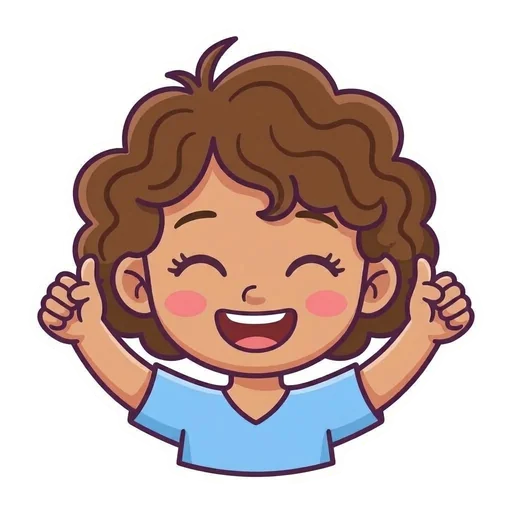
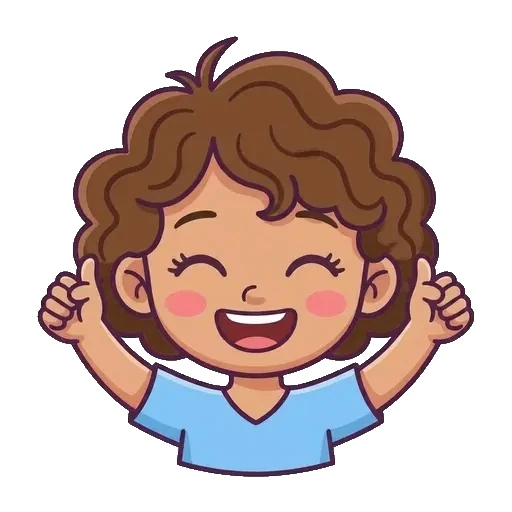
feat: Adopt the refreshed Cauã sprites normalized to the TASK-017 invariants (TASK-019)
Skin tone color-matched and a white sticker border rebuilt; no scaling or
redrawing. Invariants test unchanged.

diff --git a/docs/observations-memory.md b/docs/observations-memory.md
@@ -74,6 +74,9 @@ Lean, append-only registry of non-blocking observations (INFO / WARNING). Blocke
 | `OBS-077` | INFO | PERFORMANCE_NFR | `lib/game/components/item_spawner_component.dart` | Open | Spawn interval derived from phase 3 speed makes phases 1-2 about 6% sparser |
 | `OBS-078` | INFO | TEST_COVERAGE | `test/game/caua_candies_game_reaction_test.dart` | Open | Ingestion is simulated via onIngested, not a real item reaching the mouth; no dedicated deflection test |
 | `OBS-079` | INFO | TEST_COVERAGE | `test/game/components/item_spawner_arrival_gap_test.dart` | Open | Arrival gap simulation needs about 3600 awaits per case |
+| `OBS-068` | INFO | MAINTAINABILITY | `docs/product/design/color-palette.md` | Open | Frames do Cauã section still says PNG/.jpeg masters and lists old missing-frame status |
+| `OBS-069` | INFO | TEST_COVERAGE | `test/assets/caua_frames_invariants_test.dart` | Open | Invariants test hard-codes a white sticker border via the halo check |
+| `OBS-070` | INFO | TEST_COVERAGE | `test/assets/caua_frames_invariants_test.dart` | Open | Color reference is taken from the committed frames, so a full-set swap can drift unnoticed |
 
 ---
 
@@ -685,3 +688,32 @@ Lean, append-only registry of non-blocking observations (INFO / WARNING). Blocke
 * **Finding:** FlameGame.update did not tick world children in the harness, so each frame awaits game.ready().
 * **Risk/Impact:** Slow test runs.
 * **Resolution Trigger:** If the suite gets slow.
+### `OBS-068`
+* **Severity:** INFO
+* **Category:** MAINTAINABILITY
+* **Target:** `docs/product/design/color-palette.md`
+* **Source:** `audit / TASK-019`
+* **Status:** Open
+* **Finding:** The section describes the frames as PNG with .jpeg masters and lists three frames as missing, but the shipped files are .webp and all 13 exist.
+* **Risk/Impact:** Outdated art guidance misleads the next sprite delivery.
+* **Resolution Trigger:** Next docs refresh of the art direction file.
+
+### `OBS-069`
+* **Severity:** INFO
+* **Category:** TEST_COVERAGE
+* **Target:** `test/assets/caua_frames_invariants_test.dart`
+* **Source:** `audit / TASK-019`
+* **Status:** Open
+* **Finding:** The halo check requires partial-alpha pixels with mean RGB >= 240. The refreshed art had no white border, so TASK-019 synthesized a 10 px white one.
+* **Risk/Impact:** Any future delivery without a white sticker edge fails the test until the border is rebuilt or the test changes.
+* **Resolution Trigger:** Next sprite delivery: decide whether the white border is a requirement and document it.
+
+### `OBS-070`
+* **Severity:** INFO
+* **Category:** TEST_COVERAGE
+* **Target:** `test/assets/caua_frames_invariants_test.dart`
+* **Source:** `audit / TASK-019`
+* **Status:** Open
+* **Finding:** Reference skin, hair and shirt means come from the committed frames themselves; after TASK-019 they come from the normalized set.
+* **Risk/Impact:** Replacing all frames at once cannot be caught by the color checks.
+* **Resolution Trigger:** Next sprite delivery: pin the reference means as constants in the test.

diff --git a/docs/tasks/TASK-019-caua-sprite-refresh-normalization.md b/docs/tasks/TASK-019-caua-sprite-refresh-normalization.md
@@ -22,10 +22,10 @@ The product owner delivered a refreshed set of the 13 Cauã frames. After this t
 - Out: regenerating or redrawing art, renaming frames, changing the `.webp` format or the 512x512 canvas, animation or gameplay code (TASK-009, TASK-011), the BGM (TASK-018).
 
 ## Atomic Sub-tasks
-- [ ] T1 - Measure the 13 inputs against the committed reference frames (opaque bbox, head height, anchor, mean skin, hair and shirt, halo) and choose the reference frames (default: the committed ones). _Verify:_ a table of the 13 frames with the deltas, written to the scratchpad or the report, not to the repo.
-- [ ] T2 - Normalize every input: scale and translate to the same canvas and anchor, color-match without banding, remove halo; keep inputs and intermediates out of `assets/`. _Verify:_ a contact sheet of the 13 frames on dark and magenta backgrounds shows no jump or tone shift, and the user compares old versus new.
-- [ ] T3 - Replace the 13 files in `assets/images/caua/` and run the invariants test unchanged. _Verify:_ `test/assets/caua_frames_invariants_test.dart` green, each frame 512x512 with real alpha and within the existing size limit (<= 30 KB), total asset payload still under 3.5 MB.
-- [ ] T4 - Full gate. _Verify:_ `dart format --set-exit-if-changed lib test`, `flutter analyze`, `flutter test` and `flutter build web --release` pass; sprite wiring tests (TASK-015) stay green.
+- [x] T1 - Measure the 13 inputs against the committed reference frames (opaque bbox, head height, anchor, mean skin, hair and shirt, halo) and choose the reference frames (default: the committed ones). _Verify:_ a table of the 13 frames with the deltas, written to the scratchpad or the report, not to the repo.
+- [x] T2 - Normalize every input: scale and translate to the same canvas and anchor, color-match without banding, remove halo; keep inputs and intermediates out of `assets/`. _Verify:_ a contact sheet of the 13 frames on dark and magenta backgrounds shows no jump or tone shift, and the user compares old versus new.
+- [x] T3 - Replace the 13 files in `assets/images/caua/` and run the invariants test unchanged. _Verify:_ `test/assets/caua_frames_invariants_test.dart` green, each frame 512x512 with real alpha and within the existing size limit (<= 30 KB), total asset payload still under 3.5 MB.
+- [x] T4 - Full gate. _Verify:_ `dart format --set-exit-if-changed lib test`, `flutter analyze`, `flutter test` and `flutter build web --release` pass; sprite wiring tests (TASK-015) stay green.
 
 ## Definition of Done
 - The refreshed art ships, all 13 frames pass the TASK-017 invariants, and the suite is green.
